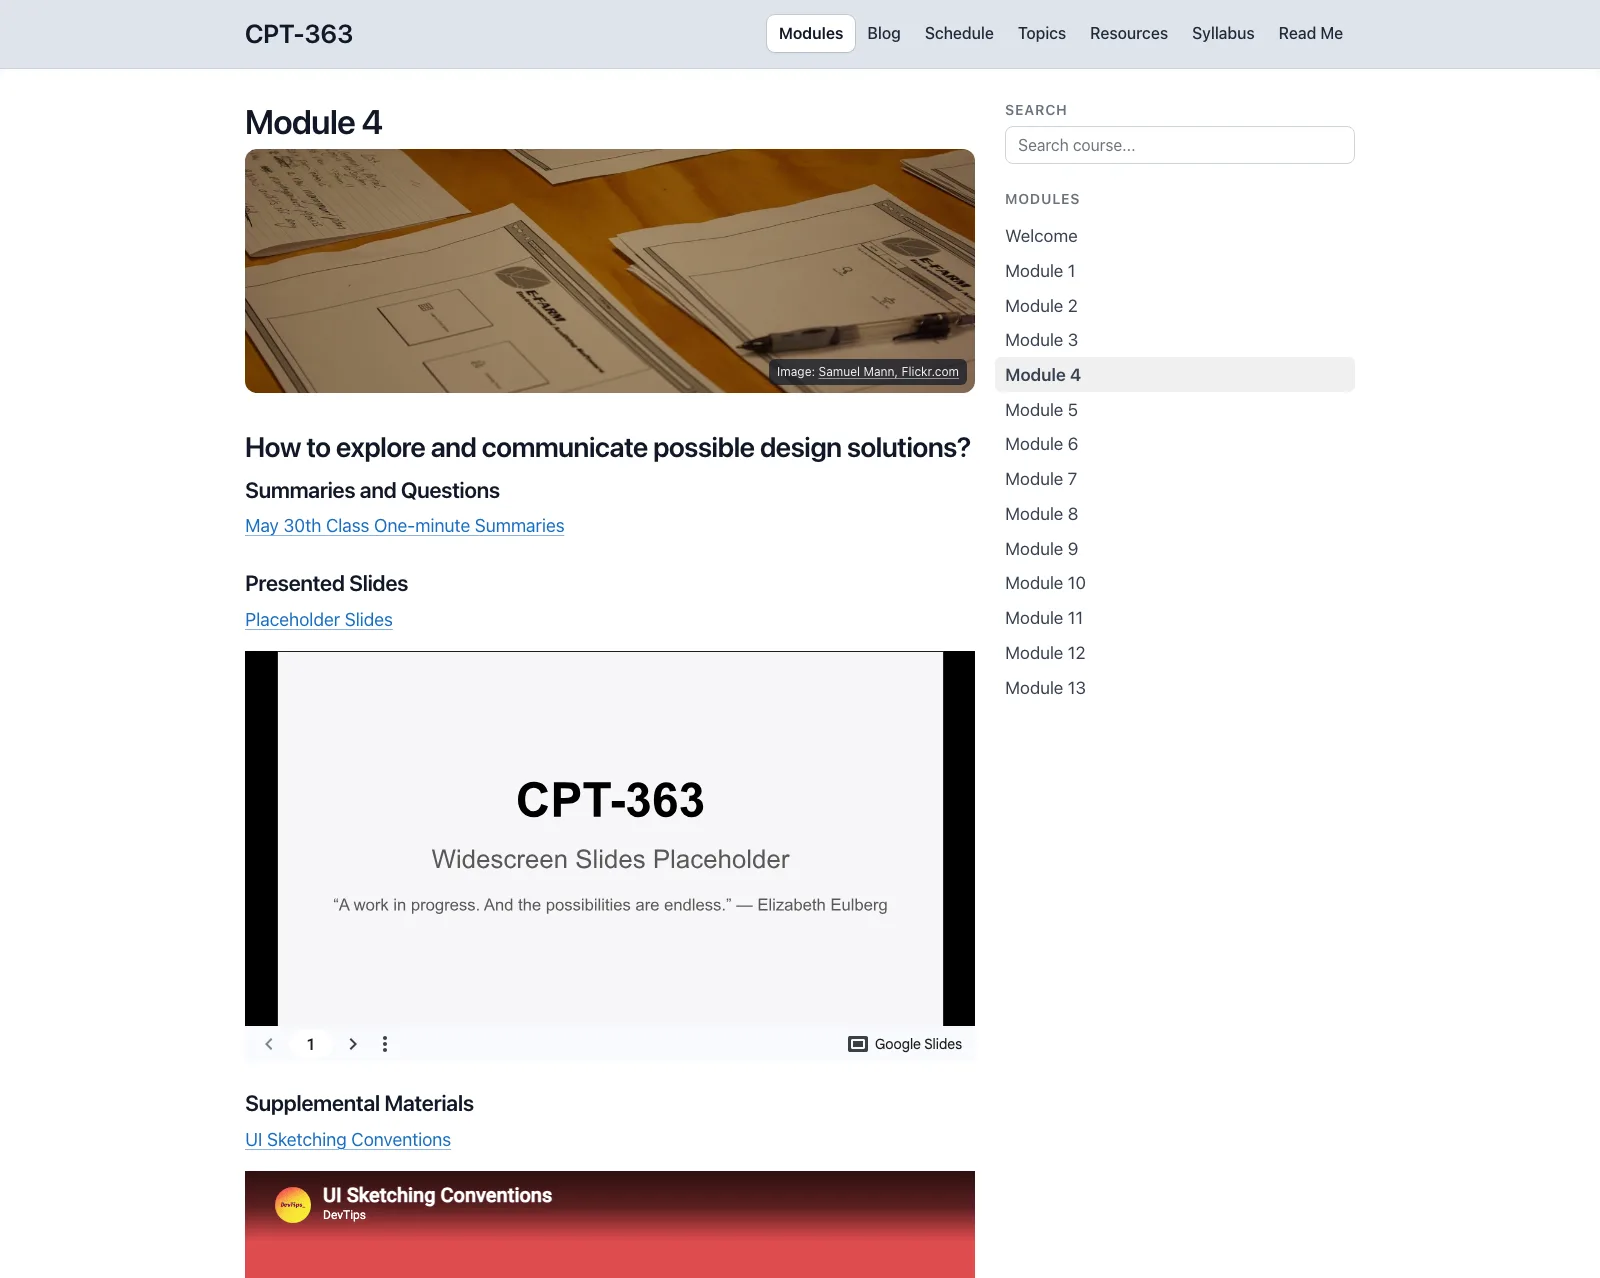
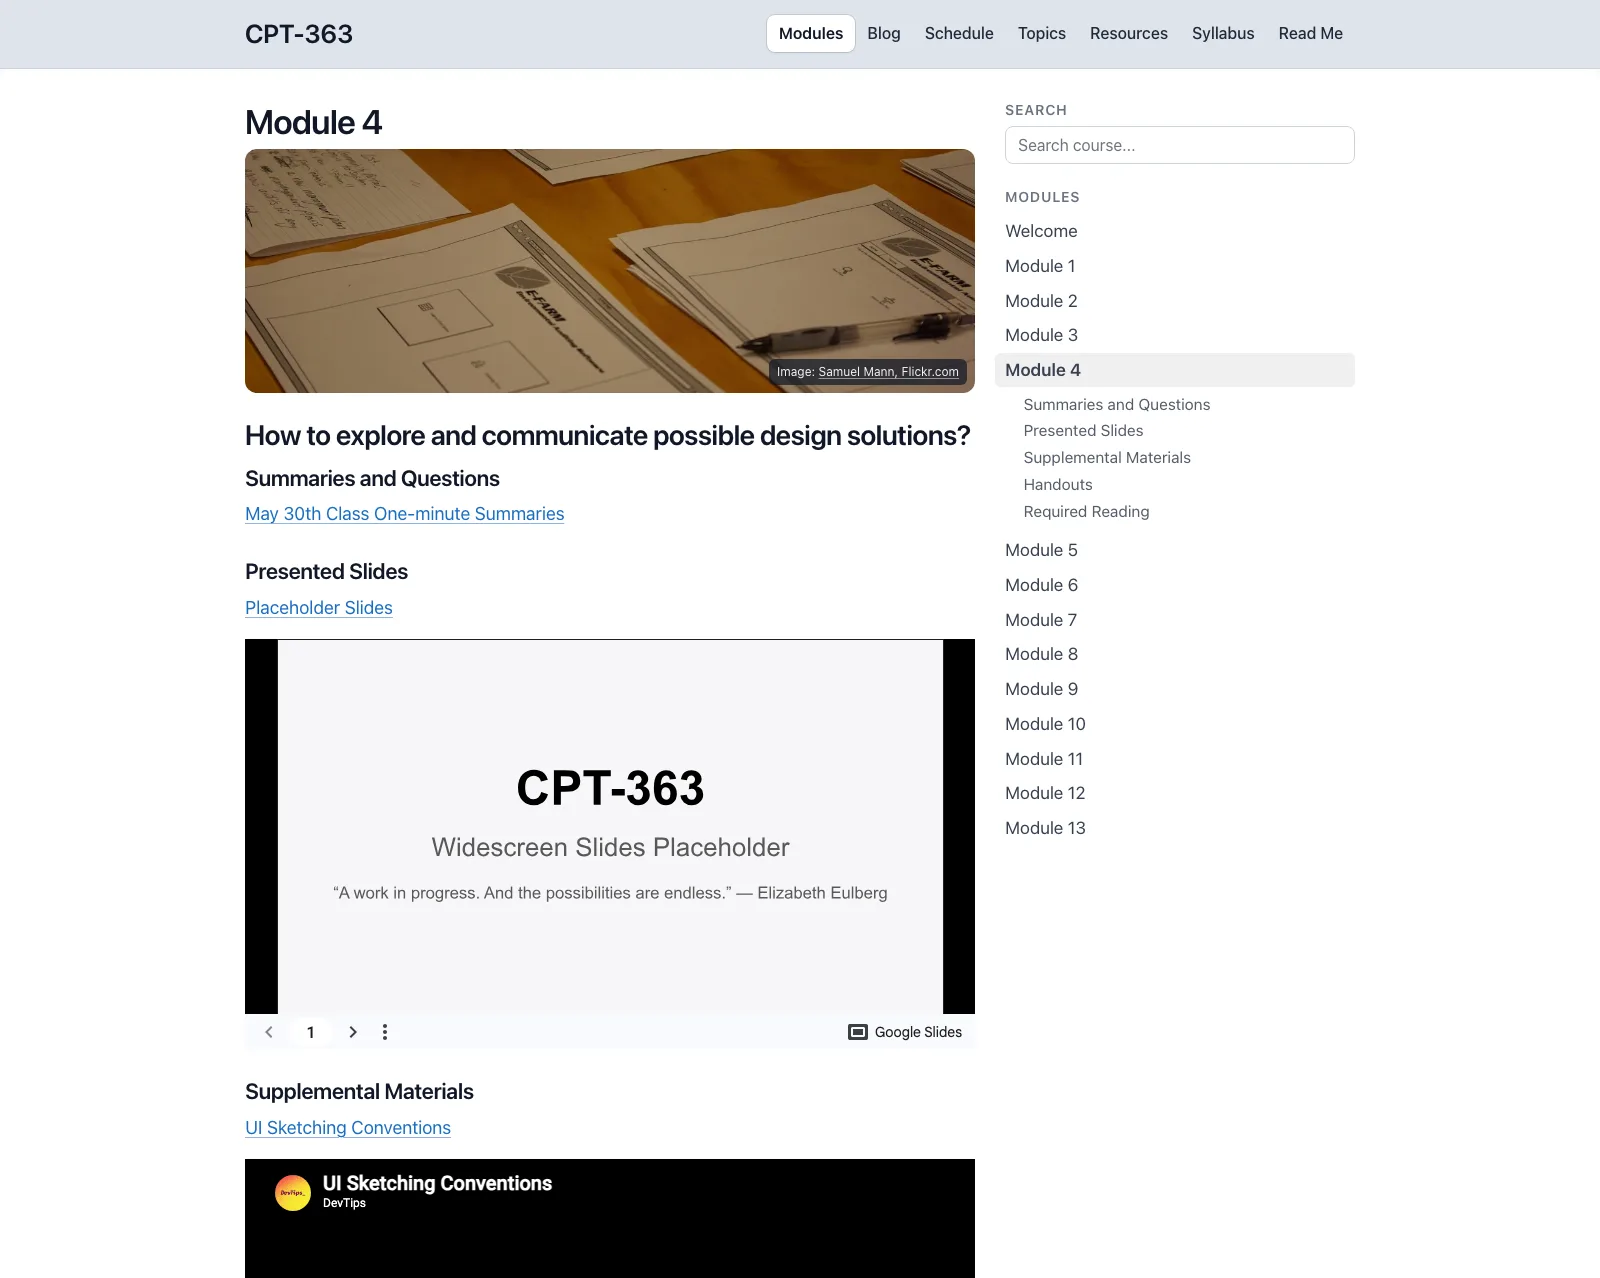
Show a module page's sections in the README screenshot.

diff --git a/README.md b/README.md
@@ -14,7 +14,7 @@
 
 <a href="https://raw.githubusercontent.com/hibbitts-design/grav-theme-bootstrap4-open-matter/refs/heads/master/screenshots/screenshot.webp"><img alt="Course homepage with this week's module, reminders and required reading, and a course sidebar with LMS links, in light mode" src="https://raw.githubusercontent.com/hibbitts-design/grav-theme-bootstrap4-open-matter/refs/heads/master/screenshots/screenshot.webp" width="49%"></a> <a href="https://raw.githubusercontent.com/hibbitts-design/grav-theme-bootstrap4-open-matter/refs/heads/master/screenshots/screenshot-module-dark.webp"><img alt="Modules page with a card for each module, and the course sidebar on the right, in dark mode" src="https://raw.githubusercontent.com/hibbitts-design/grav-theme-bootstrap4-open-matter/refs/heads/master/screenshots/screenshot-module-dark.webp" width="49%"></a>
 
-<a href="https://raw.githubusercontent.com/hibbitts-design/grav-theme-bootstrap4-open-matter/refs/heads/master/screenshots/screenshot-blog-dark.webp"><img alt="Course blog with a featured post and other posts, and a sidebar with Popular Tags, Archives and RSS, in dark mode" src="https://raw.githubusercontent.com/hibbitts-design/grav-theme-bootstrap4-open-matter/refs/heads/master/screenshots/screenshot-blog-dark.webp" width="49%"></a> <a href="https://raw.githubusercontent.com/hibbitts-design/grav-theme-bootstrap4-open-matter/refs/heads/master/screenshots/screenshot-module-page.webp"><img alt="Module 4 page with its slides, and a list of all modules on the right with Module 4 highlighted, in light mode" src="https://raw.githubusercontent.com/hibbitts-design/grav-theme-bootstrap4-open-matter/refs/heads/master/screenshots/screenshot-module-page.webp" width="49%"></a>
+<a href="https://raw.githubusercontent.com/hibbitts-design/grav-theme-bootstrap4-open-matter/refs/heads/master/screenshots/screenshot-blog-dark.webp"><img alt="Course blog with a featured post and other posts, and a sidebar with Popular Tags, Archives and RSS, in dark mode" src="https://raw.githubusercontent.com/hibbitts-design/grav-theme-bootstrap4-open-matter/refs/heads/master/screenshots/screenshot-blog-dark.webp" width="49%"></a> <a href="https://raw.githubusercontent.com/hibbitts-design/grav-theme-bootstrap4-open-matter/refs/heads/master/screenshots/screenshot-module-page.webp"><img alt="Module 4 page with its slides, and a list of all modules on the right with Module 4 highlighted and its sections listed below it, in light mode" src="https://raw.githubusercontent.com/hibbitts-design/grav-theme-bootstrap4-open-matter/refs/heads/master/screenshots/screenshot-module-page.webp" width="49%"></a>
 
 <p>Open Course Hub – Course homepage and Modules page (top), and the course blog and a module page (bottom), in light and dark mode</p>
 
